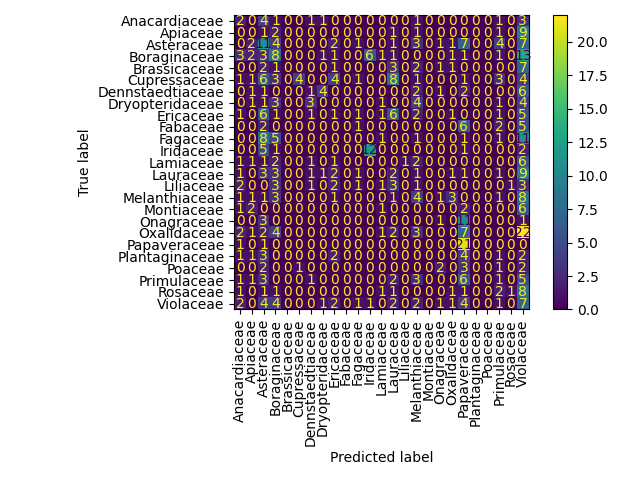
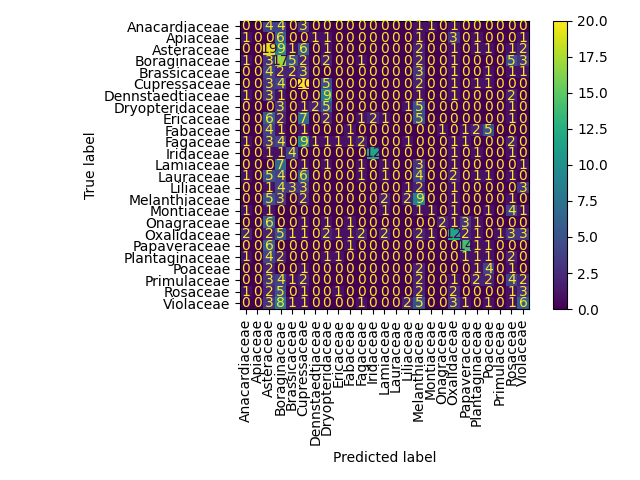
renaming for final submission

diff --git a/Plant_Classifier_Final_Model.py b/Plant_Classifier_Final_Model.py
@@ -1,0 +1,292 @@
+'''
+Plant Family Identifier Model
+Andrea Okolo and Griffin Svec-Burdick
+CMPM17 Winter 2026 Final Project
+'''
+
+from torch.utils.data import DataLoader, Dataset
+from torchvision.transforms import v2
+import torch
+import torch.nn as nn
+import torch.optim as optim
+from torchvision.utils import make_grid
+from torchvision.utils import save_image
+from IPython.display import Image
+import matplotlib.pyplot as plt
+import numpy as np
+import pandas as pd
+from PIL import Image,ImageFilter
+import PIL.Image
+import os
+from torchvision.datasets import ImageFolder
+import time
+import wandb
+from sklearn.metrics import f1_score                    #When running on GPU use this to install sklearn:  pip install -U scikit-learn
+
+
+#For confusion matrix
+from sklearn.metrics import confusion_matrix, ConfusionMatrixDisplay
+import matplotlib.pyplot as plt
+
+# Set parameters
+NUM_EPOCHS = 100
+learn_rate = 0.0002
+
+df = pd.read_csv("DownloadedImageData_NewPaths.csv")             #load data into dataframe
+
+if __name__ == '__main__': #skip these for demo
+    run = wandb.init(project="Final Plant Family Models", name="Test E=100 LR=0.0002")
+
+    #Checking for device automatically
+    if torch.cuda.is_available():
+        device = "cuda"
+        print("CUDA is available. Using GPU.")
+    else:
+        device = "cpu"
+
+
+
+#Augment and Show images
+num_images = 100
+plt.figure(figsize=(20,20))                 #window display size of images
+          
+img_augment = v2.Compose([                             #Transforms for training data
+        v2.ToImage(),                                  #v2.ToImage() and v2.ToDtype(torch.float32, scale=True) convert to a torch tensor image object
+        v2.ToDtype(torch.float32, scale=True),                                                  
+        v2.Resize((224,224)),                               #resizes the image to 224 x 224
+        v2.RandomHorizontalFlip(p=0.3),                     #30% probability of flipping the image on its x-axis
+        v2.RandomVerticalFlip(p=0.4),                       #40% probability of flippng the image on its y-axis
+        v2.ColorJitter(brightness=0.15,contrast=0.15),      #Slightly shift the color contrast and brightness to account for variations in photos such as lighting 
+        v2.RandomApply([                                    #will apply the following features at the same time
+            v2.RandomRotation(degrees=50),                  #will randonmly rotate the image by 50 degrees
+            v2.RandomResizedCrop(224, scale=(0.85,1.0)),    #RandomResizedCrop order:(size, )
+        ], p=0.5),
+    ])                     
+                                                                                                                                    
+for i in range(num_images):
+    img_path = 'getImages2/' + df.iloc[i]['img_path']       #Creates a path to the image folder to display images                                                                                   
+    name = df.iloc[i]['scientific_name']                    #locates the column scientific name and retrieves the respective name for the image
+
+    img = PIL.Image.open(img_path)                          #allows the image to be opened                                                                                            
+
+    use_transforms = img_augment(img)
+
+    plt.subplot(10, 10, i+1)                                #plots the images in a 10x10 matrix                                                                           
+    plt.imshow(v2.ToPILImage()(use_transforms))             
+    plt.title(name[:15], fontsize=6)
+    plt.axis("off")
+
+plt.tight_layout(pad=2, h_pad=2.5, w_pad=0.2)               #adds extra spacing between titles and images
+plt.savefig('Transforms')        #                                                                                    
+plt.show(block=False)            #Use plt.show(block=False) for debugging purposes; this will prevent the graph from popping up                                                                  
+
+
+
+transforms = v2.Compose([        #Transforms for testing/validation                                                           
+        v2.ToImage(),                                                                                           
+        v2.ToDtype(torch.float32, scale=True),                                                 
+        v2.Resize((224,224)),
+    ])
+
+
+#Define datasets and dataloaders
+
+root = 'imagesOrganizedSplit'
+#Create Imagefolders
+train_dataset = ImageFolder(os.path.join(root,'train'), transform=img_augment)       #Creates a path to the respective folder
+test_dataset = ImageFolder(os.path.join(root,'test'), transform=transforms)          #Only test/val use normal transforms and training uses image augmentations
+val_dataset = ImageFolder(os.path.join(root,'val'), transform=transforms)
+
+
+#Create dataloaders
+train_dataloader = DataLoader(train_dataset, batch_size=64, pin_memory=True, num_workers=16, shuffle=True)  #Use pin_memory=True & num_workers=16 for helping speed up GPU processes    
+test_dataloader = DataLoader(test_dataset, batch_size=16, pin_memory=True, num_workers=16,  shuffle=True)    #Exclude pin_memory=True & num_workers=16 when running on local device otherwise code will not run
+val_dataloader = DataLoader(val_dataset, batch_size=16, pin_memory=True, num_workers=16, shuffle=True)       #num_workers helps with memory usage; num_workers operates by splitting the data into multiple subprocesses that run at the same time and speed up data computations. Helpful for faster calculations and large datasets
+                                                                                                            #using pin_memory=True allows for tensors to be copied to CUDA before returning an output. Also speeds up computational processes
+                                                                                                            #Copy and paste pin_memory=True, num_workers=16, when debugging between cpu and gpu
+
+ 
+
+if __name__ == '__main__': #Check dataloader outputs (not if importing this as a module)
+    for images, labels in train_dataloader:
+        print(f"\nTrain inputs: {images.size()}")       #Input order: ([batch size, channels, img height, img width])
+        print(f"Train outputs: {labels.size()}")        #Output order: ([batch size])
+        break
+
+    for images, labels in test_dataloader:
+        print(f"\nTest inputs: {images.size()}")
+        print(f"Test outputs: {labels.size()}")
+        break
+        
+    for images, labels in val_dataloader:
+        print(f"\nValidation inputs: {images.size()}")
+        print(f"Validation outputs: {labels.size()}")
+        break
+
+
+
+#Define the CNN model class
+class ConvNet(nn.Module):
+    def __init__(self):
+        super().__init__()                          #nn.Conv2d order: ([in_channels(RGB), out channels, kernel size, stride, padding])
+        self.conv1 = nn.Conv2d(3, 32, 3, 1 ,1)   #apply 32 3x3 filters to the image; this doubles in size through each convolution layer
+        self.bN1 = nn.BatchNorm2d(32)               #BatchNorm2D adjusts values to have a std of 1 and mean of 0. Helps the model train faster and have more consistent results
+        self.conv2 = nn.Conv2d(32, 64, 3, 1, 1)
+        self.bN2 = nn.BatchNorm2d(64)
+        self.conv3 = nn.Conv2d(64, 128, 3, 1, 1)
+        self.bN3 = nn.BatchNorm2d(128)
+        self.conv4 = nn.Conv2d(128, 256, 3, 1, 1)
+        self.bN4 = nn.BatchNorm2d(256)
+        self.conv5 = nn.Conv2d(256, 512, 3, 1, 1)
+        self.bN5 = nn.BatchNorm2d(512)
+
+        self.pool = nn.MaxPool2d(2,2)            #Scales down the matrix into a 2x2 block and computes the maximum; Helps the model analyze important features of images
+        self.fc1 = nn.Linear(7*7*512, 500)       #Images will pass through 5 layers and will be scaled down by the pooling layers. multiplied by the final number of filters applied to the images. 500 is the number of neurons calcualted.
+        self.fc2 = nn.Linear(500, 25)            #takes the 500 neurons created and maps them to the 25 plant classes
+        self.relu = nn.ReLU()
+        self.flatten = nn.Flatten()              #merge the dimensions into a single tensor
+
+    def forward(self, X):                        #Pass convolutions through pooling layers, relu activation, and batch norms
+        X = self.pool(self.bN1(self.relu(self.conv1(X))))
+        X = self.pool(self.bN2(self.relu(self.conv2(X))))
+        X = self.pool(self.bN3(self.relu(self.conv3(X))))
+        X = self.pool(self.bN4(self.relu(self.conv4(X))))
+        X = self.pool(self.bN5(self.relu(self.conv5(X))))
+        X = X.flatten(start_dim=1)               #
+        X = self.relu(self.fc1(X))
+        output = self.fc2(X)
+        return output
+
+if __name__ == '__main__': # Prevents the model from rerunning when importing to the demo file
+
+    model = ConvNet()                               
+    model.to(device)    #connect model to gpu
+
+    #Check output of the model
+    for images, label in train_dataloader:
+        images, labels = images.to(device), labels.to(device)
+        print(f'\nImage shape: {images.shape}')                  #print dimensions of input image shape
+        output_model = model(images)                                                                             
+        print(f'Output shape: {output_model.shape}')                                                                #print the output tensor of model shape
+        # print(output_model[0])                                                                                      #prints image shape for first image in batch
+        break
+     
+
+    #Training, Validation and Testing Loop
+
+    optimizer = torch.optim.Adam(model.parameters(), lr=learn_rate)                                                                  
+    criterion = nn.CrossEntropyLoss().to(device)  
+
+
+    training_loop_time = time.time()            #Calculate the time at the beginning of the training loop
+
+    #----------TRAINING LOOP----------
+    for epoch in range(NUM_EPOCHS):
+        epoch_start_time = time.time()          #Calculate time at the beginning of each epoch
+        model.train()
+
+        train_correct_vals = 0
+        train_total_imgs = 0
+        train_accuracy = 0
+        train_total_loss = 0
+
+        v_correct_vals = 0
+        v_total_imgs = 0
+
+        for images, labels in train_dataloader:
+            images, labels = images.to(device), labels.to(device)   #moves the images and labels to the GPU
+
+            train_preds = model(images)                     #calculate model predictions
+            train_loss = criterion(train_preds, labels)     #compare predictions to the actual values and calculate using the previously defined loss function
+
+            _, tr_preds = torch.max(train_preds, dim=1)     #_ ignores the inital value dummy variable; tr_preds will predict the highest/most accurate class
+
+            train_correct_vals += torch.sum((tr_preds == labels)).item()       #Compare predictions to labels. If predictions are correct add to a total value                                      
+            train_total_imgs += labels.size(0)                                 #keep track of the images procressed
+
+            train_total_loss += train_loss.item()           #add up the total loss value
+
+            optimizer.zero_grad()       #reset slope calculations
+            train_loss.backward()       #calculates slopes  
+            optimizer.step()            #updates weights
+
+        run.log({"Epoch":epoch+1, "Train Loss":train_loss})         #Working train loss graph
+            
+
+        train_accuracy = train_correct_vals / train_total_imgs          #calcualte train accuracy by dividing total correct values over total images processed
+        avg_train_loss = train_total_loss / len(train_dataloader)       #caluclate average training loss by dividing total loss value over the total items in the train_dataloaders
+        
+        epoch_time = time.time() - epoch_start_time             #Calculate the time at the end of the epoch
+
+        run.log({"Epoch":epoch+1, "Training Accuracy":train_accuracy})           #Working training accuracy graph
+
+        print(f"Epoch: {epoch+1:03d}/{NUM_EPOCHS:03d} || Training Loss: {train_loss.item():.6f} || Avg Training Loss: {avg_train_loss:.6f} ||" 
+            f" Training Accuracy: {train_accuracy:.6f} || Runtime: {(epoch_time/60):.2f} mins")
+        model.eval()
+
+
+    #------- VALIDATION LOOP --------
+        with torch.no_grad():                                               #disables background gradient calculations; Using in validation loop helps speed up the model output
+            for images, labels in val_dataloader:
+                images, labels = images.to(device), labels.to(device)       #moves the images and labels to the GPU
+
+                val_preds = model(images)
+                val_loss = criterion(val_preds, labels)
+
+                __, v_preds = torch.max(val_preds, dim=1)
+                        
+                v_correct_vals += torch.sum((v_preds == labels)).item()                                                    
+                v_total_imgs += labels.size(0)    
+
+            run.log({"Epoch":epoch+1, "Validation Loss": val_loss})      #Working validation graph
+
+
+    print("\nTesting Phase")
+
+    with torch.no_grad():
+        test_correct_vals = 0
+        test_total_imgs = 0
+
+        labels_list = []                       #labels and preds for both confusion matrix and f1 score
+        preds_list = []                        
+
+
+        for images, labels in test_dataloader:
+            images, labels = images.to(device), labels.to(device)           #moves the images and labels to the GPU
+
+            test_preds = model(images)
+            test_loss = criterion(test_preds, labels)
+
+            __, tt_preds = torch.max(test_preds, dim=1)
+
+            test_correct_vals += torch.sum((tt_preds == labels)).item()
+            test_total_imgs += labels.size(0)
+
+            preds_list.extend(tt_preds.cpu()) # Move to CPU and add to list of predictions
+            labels_list.extend(labels.cpu()) # Move to CPU and add to list of labels
+            
+            f1_macro = f1_score(labels_list, preds_list, average="macro")      #compute f1 score
+
+            run.log({"Test F1 Score - Macro": f1_macro}) #Working F1 Score Macro
+            run.log({"Test Loss":test_loss})        #Working Test Loss graph
+
+        test_accuracy = test_correct_vals / test_total_imgs
+        print(f"Test Loss: {test_loss.item()} || Testing Accuracy: {test_accuracy:.6f}")
+
+        run.log({"Epoch":epoch+1, "Test Accuracy":test_accuracy}) 
+
+
+    label_names = test_dataset.classes
+        
+    cm = confusion_matrix(labels_list, preds_list)
+    disp = ConfusionMatrixDisplay(confusion_matrix=cm, display_labels=label_names)
+    disp.plot()
+    plt.xticks(rotation = 'vertical')
+    plt.tight_layout() # make tick labels fit
+    plt.savefig(f'confusion_matrix/confusion_matrix_{NUM_EPOCHS:03d}epochs.png') #this will overwrite previous
+                                         
+
+    print(f"Total time: {((time.time() - training_loop_time)/60):.2f} minutes")             #print total time for the whole training loop to process
+
+    # Save the model based on epoch number and current time
+    torch.save(model.state_dict(), f"saved_models/final_save_{NUM_EPOCHS:03d}_epochs_{int(time.time())}.pt")             #Saves the model to a file called final_save.pt

diff --git a/demo.py b/demo.py
@@ -13,7 +13,7 @@ import time # for dramatic effect
 from runtime_model_draft_latest import ConvNet, test_dataset
 # REPLACE "trainModelFile" WITH THE NAME OF THE FILE WITH THE MODEL CLASS
 
-use_image = 6 # Change this to use a different image
+use_image = 2 # Change this to use a different image
 img_dict = {
     1 : 'imagesOrganizedSplit/train/Cupressaceae/05738_Sequoia sempervirens.jpg',
     2 : 'imagesOrganizedSplit/train/Oxalidaceae/01166_Oxalis pes-caprae.jpg',
